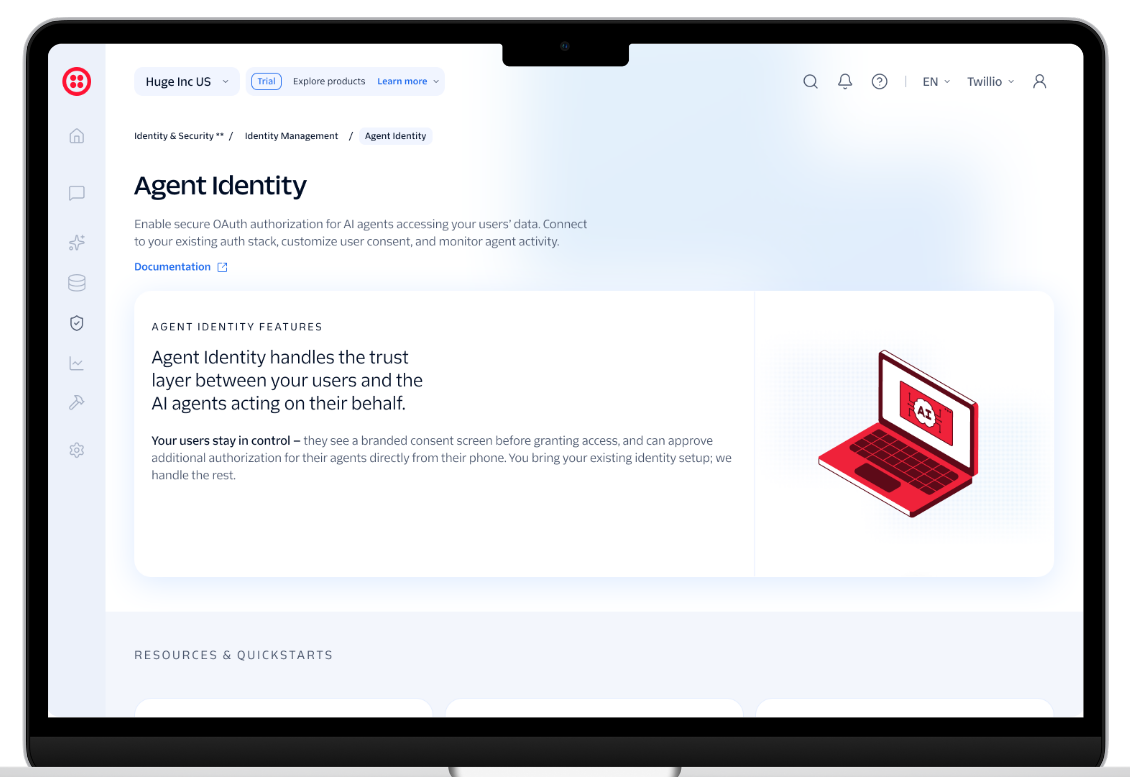
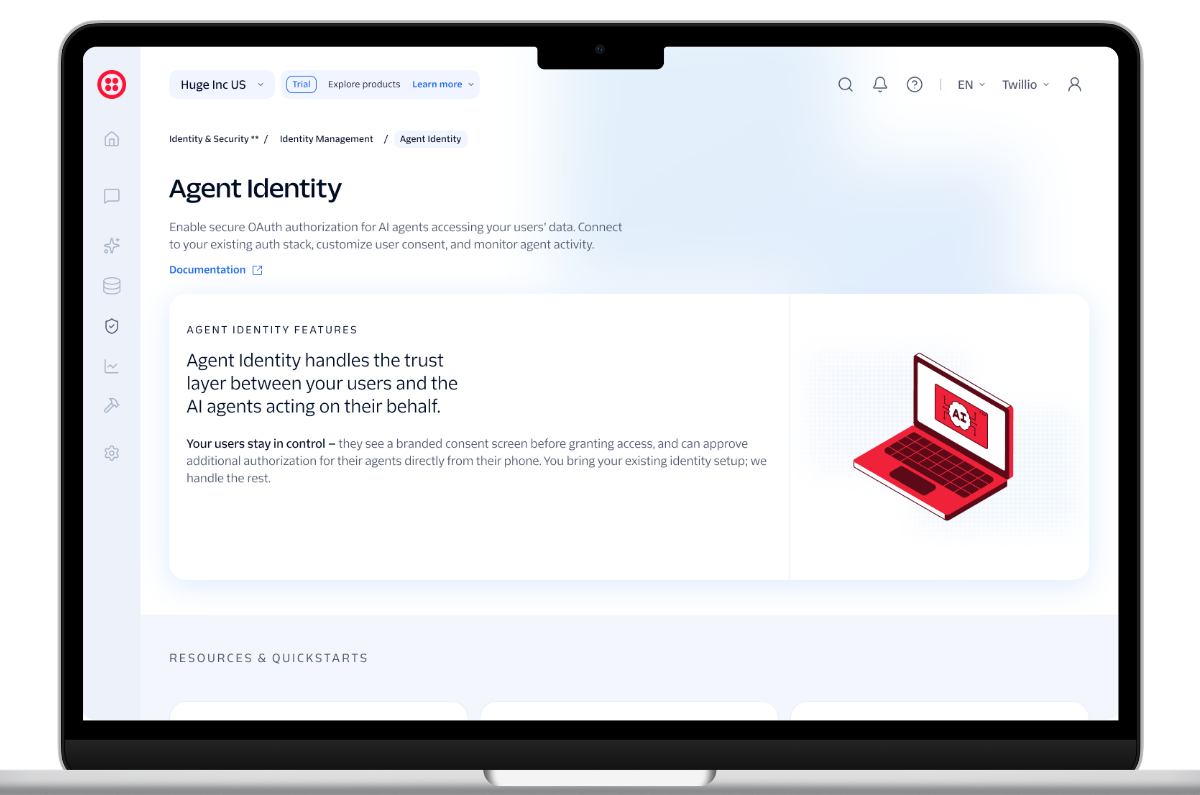
Zoom out thumbnails so the full laptop frame fits with margin
Re-cropped both with generous margin on all sides (clear of the
header text above and the nav dots/arrows at the bottom), and
switched object-fit from cover to contain so the two images' slightly
different heights never get cropped to force a shared aspect ratio.

diff --git a/index.html b/index.html
@@ -30,9 +30,9 @@
   .card:hover{border-color:var(--ink-45); box-shadow:0 12px 28px rgba(23,22,27,.08);}
   .card a{display:block; text-decoration:none; color:inherit;}
   .card-thumb{
-    display:block; width:100%; aspect-ratio:1130/714; object-fit:cover;
-    object-position:center; border-bottom:1px solid var(--line);
-    background:var(--cream);
+    display:block; width:100%; aspect-ratio:1200/785; object-fit:contain;
+    border-bottom:1px solid var(--line);
+    background:#fff;
   }
   .card-body{padding:22px 24px 24px;}
   .item-title{font-size:19px; font-weight:600; margin:0 0 6px; transition:opacity .15s ease;}
